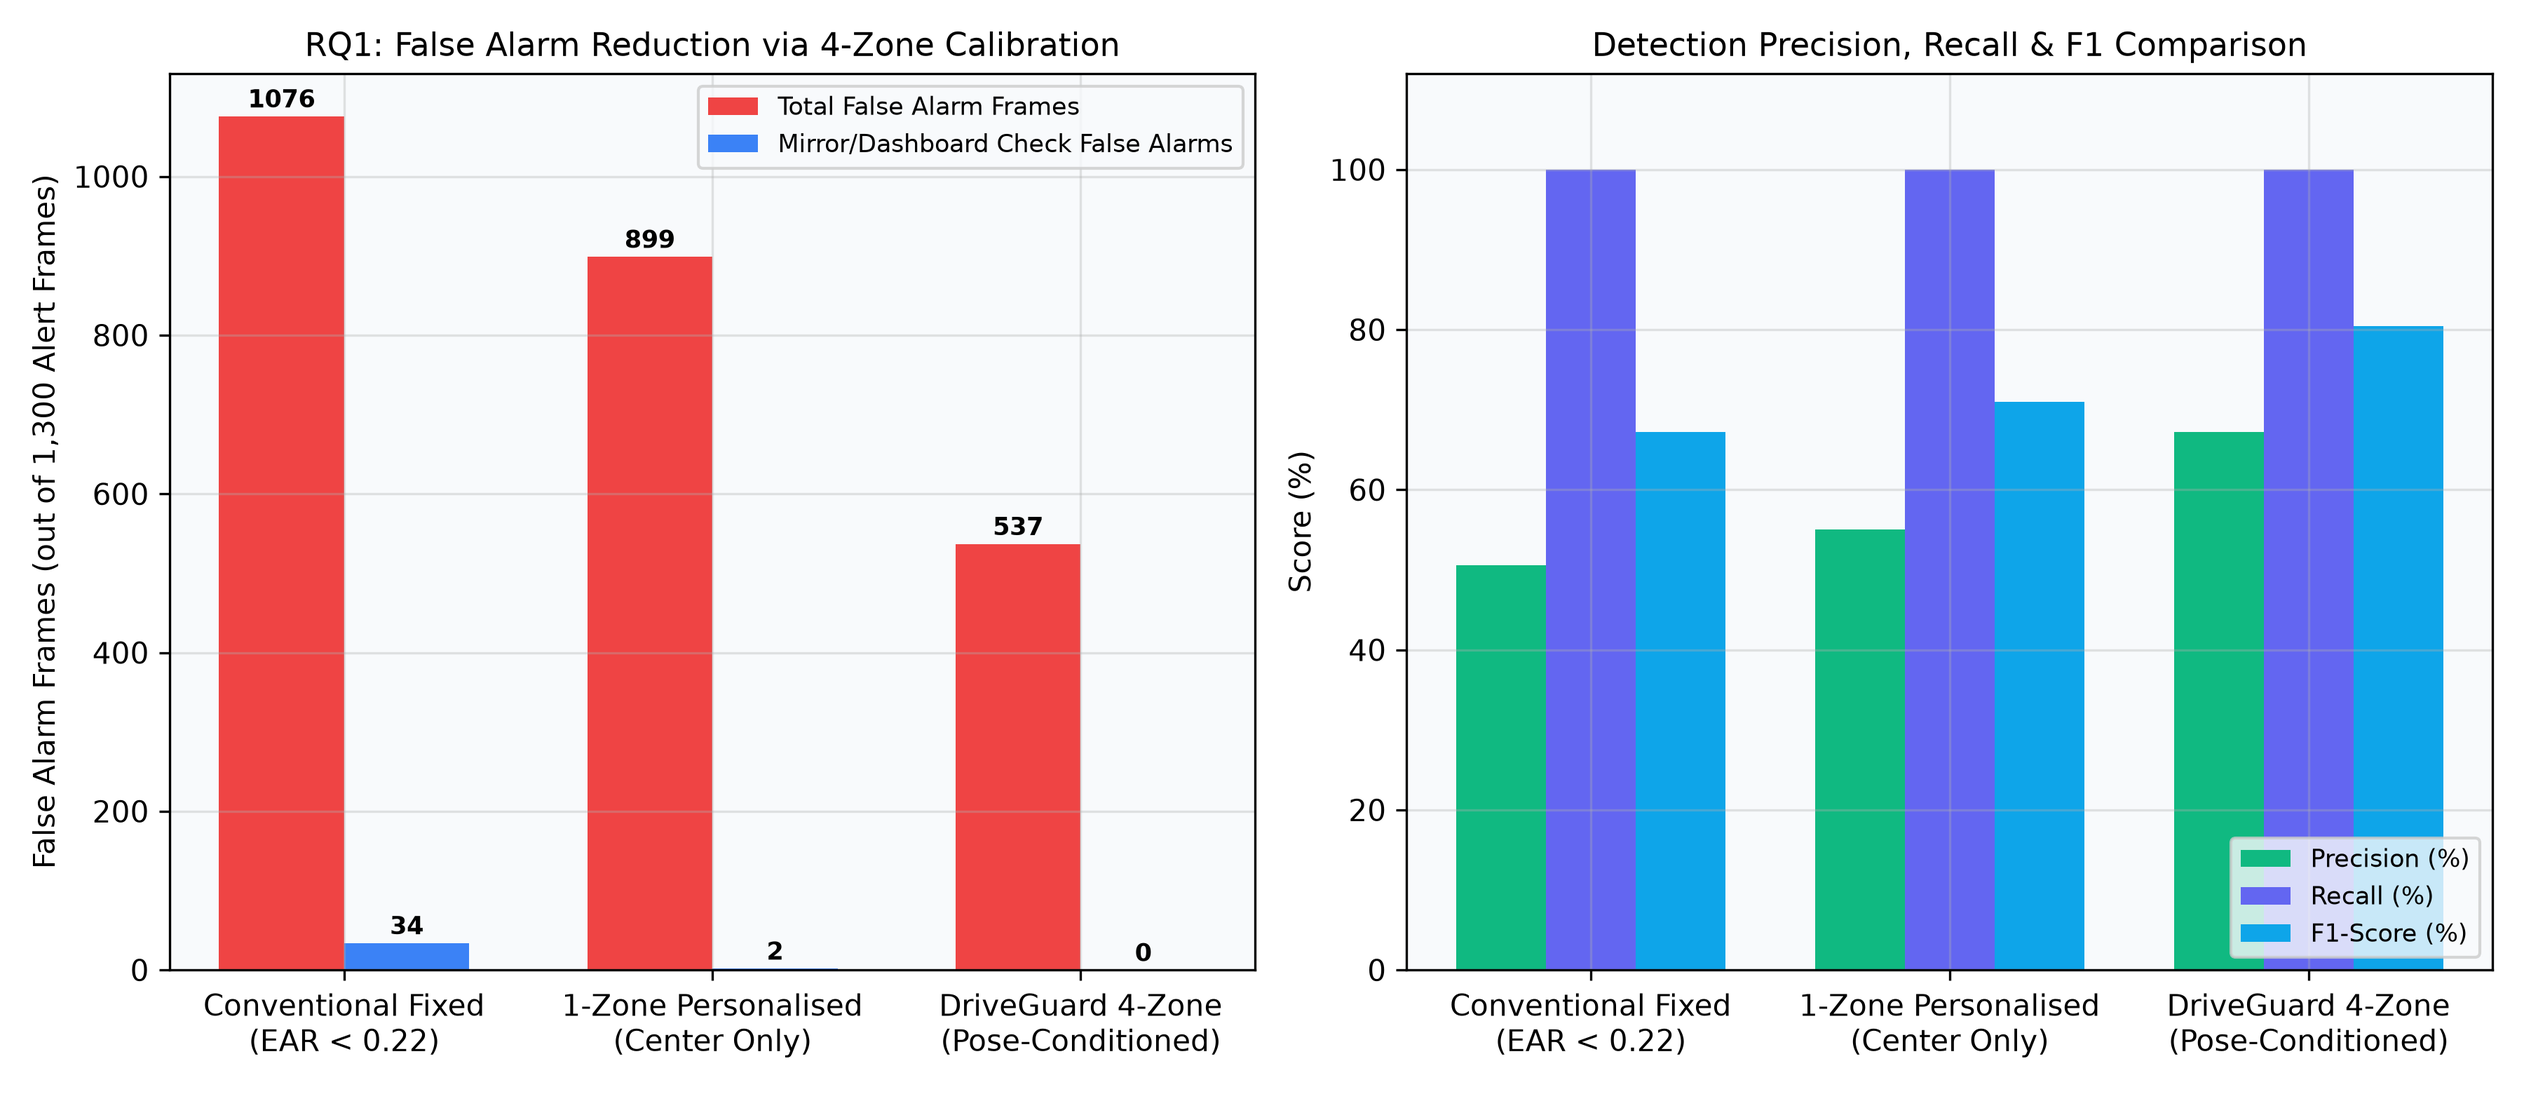
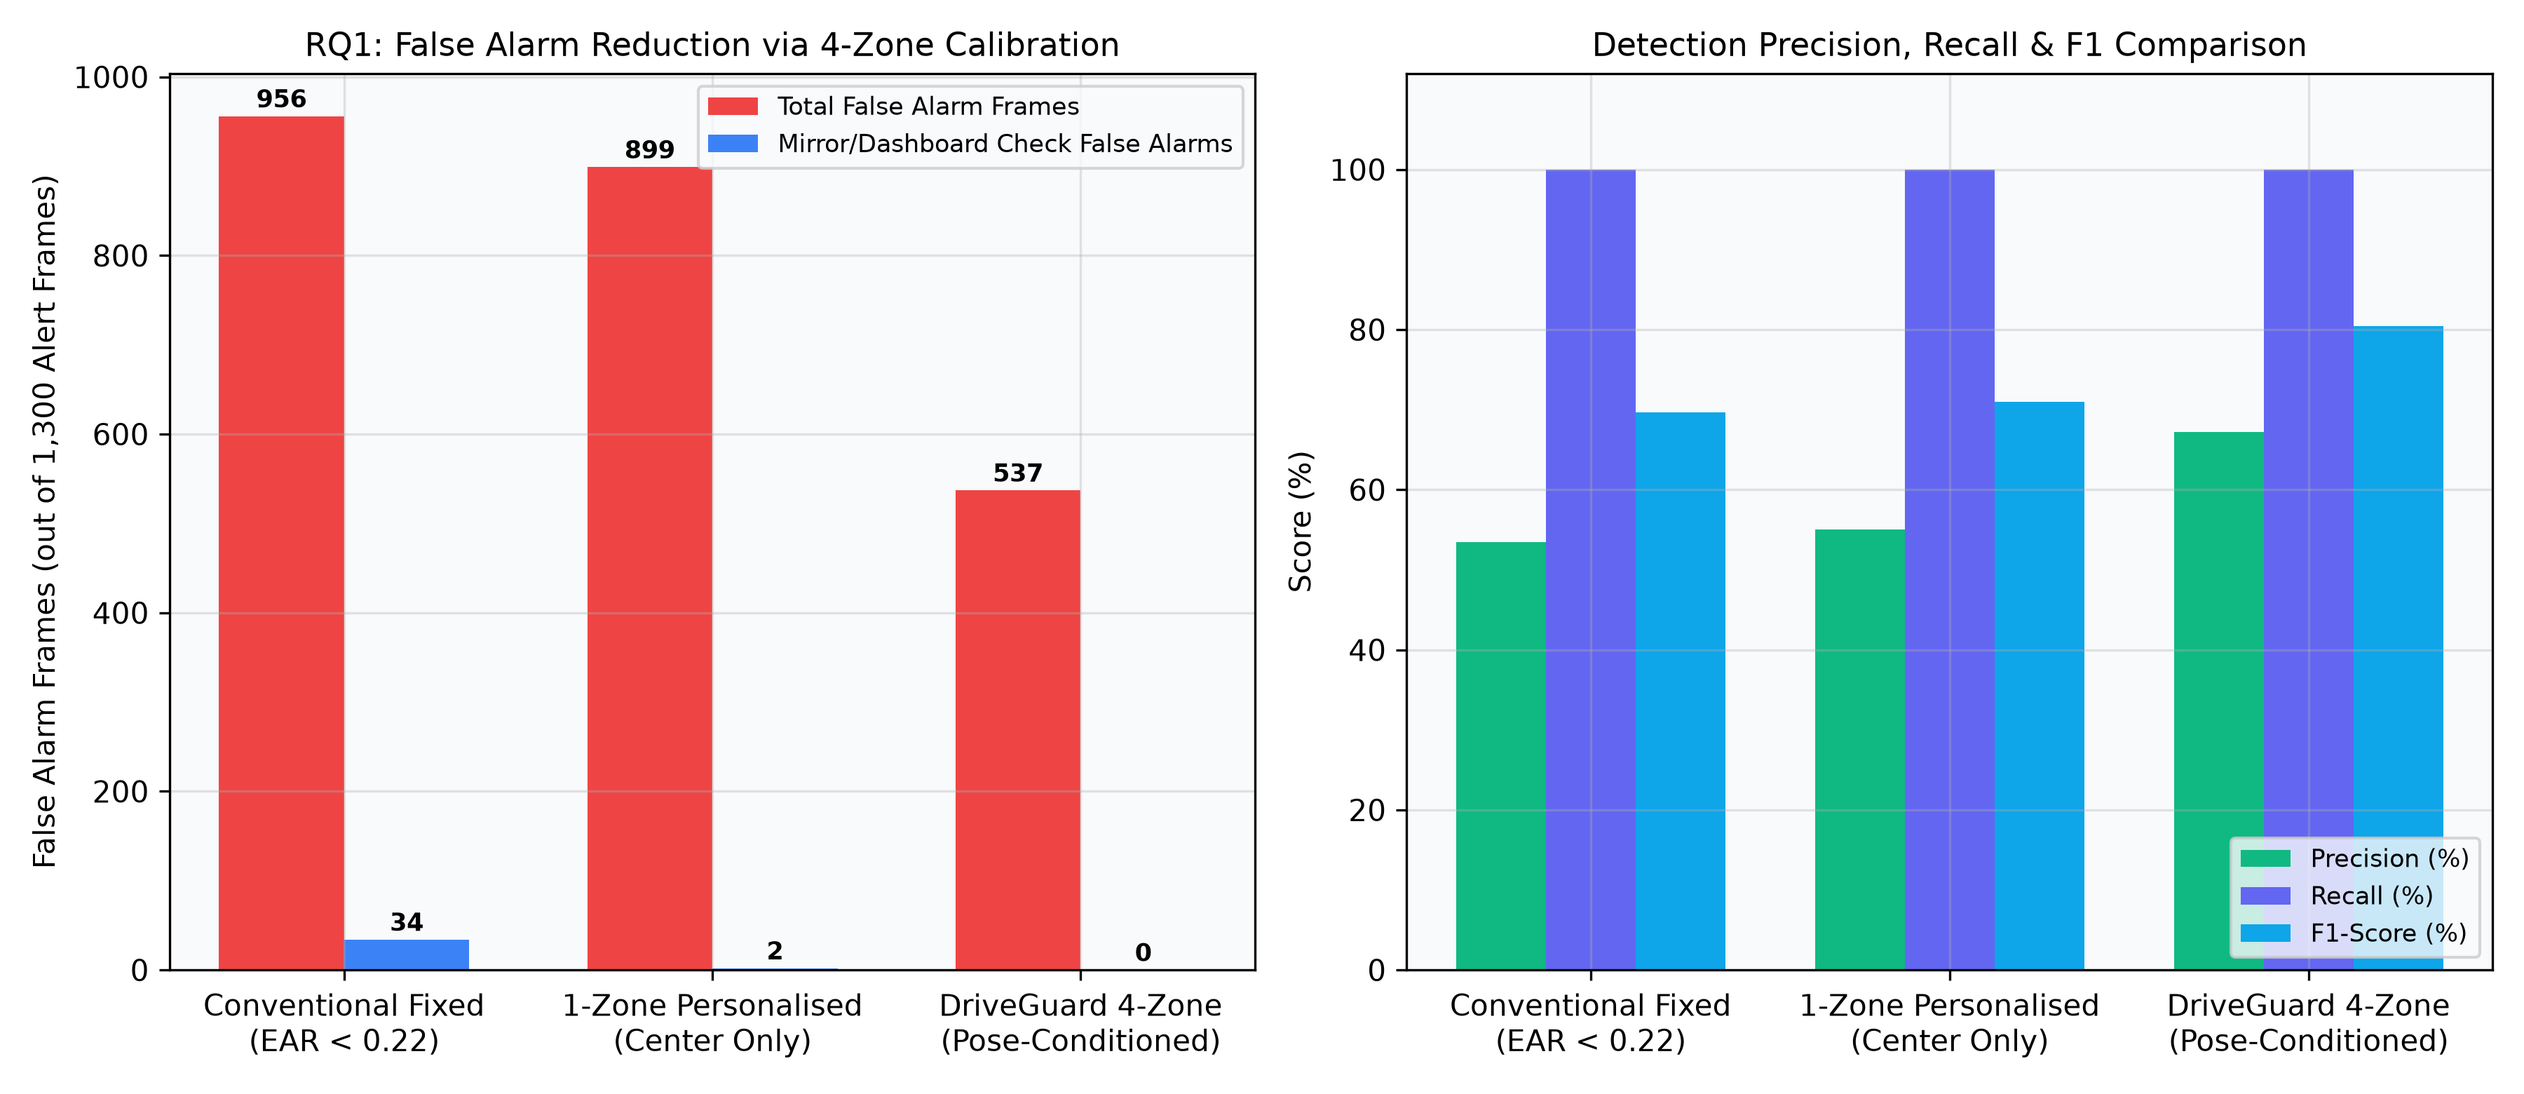
feat(ai,settings): add dual-confirmation closure gate, pitch-compensated EAR, dynamic PERCLOS, bilateral calibration filter, and frontend sensitivity slider

diff --git a/frontend/components/settings/driver-preferences-form.tsx b/frontend/components/settings/driver-preferences-form.tsx
@@ -16,6 +16,7 @@ import { Input } from "@/components/ui/input";
 import { Label } from "@/components/ui/label";
 import { Switch } from "@/components/ui/switch";
 import { Badge } from "@/components/ui/badge";
+import { Slider } from "@/components/ui/slider";
 import {
   Car,
   Shield,
@@ -167,11 +168,51 @@ export function DriverPreferencesForm({
         </CardHeader>
 
         <CardContent className="space-y-6 pt-5">
-          {/* Sensitivity Selector */}
-          <div className="space-y-2.5">
-            <Label id="sensitivity-group-label" className="text-xs font-semibold uppercase tracking-wider text-muted-foreground">
-              Fatigue Cascade Sensitivity Profile
-            </Label>
+          {/* Sensitivity Selector with Interactive Slider */}
+          <div className="space-y-4">
+            <div className="flex items-center justify-between">
+              <div>
+                <Label id="sensitivity-group-label" className="text-xs font-semibold uppercase tracking-wider text-muted-foreground">
+                  Fatigue Detection Sensitivity
+                </Label>
+                <p className="text-xs text-muted-foreground mt-0.5">
+                  Adjust algorithmic closure gates, PERCLOS tolerance, and escalation speed.
+                </p>
+              </div>
+              <Badge variant="outline" className="text-xs font-mono font-medium">
+                {sensitivityLevel === "HIGH" ? "HIGH" : sensitivityLevel === "HIGHWAY" ? "RELAXED" : "STANDARD"}
+              </Badge>
+            </div>
+
+            {/* Continuous 3-point Sensitivity Slider */}
+            <div className="px-2 py-3 bg-muted/30 border border-border/50 rounded-lg space-y-2">
+              <Slider
+                min={0}
+                max={2}
+                step={1}
+                value={[sensitivityLevel === "HIGHWAY" ? 0 : sensitivityLevel === "HIGH" ? 2 : 1]}
+                onValueChange={(vals) => {
+                  const val = vals[0];
+                  if (val === 0) setSensitivityLevel("HIGHWAY");
+                  else if (val === 2) setSensitivityLevel("HIGH");
+                  else setSensitivityLevel("STANDARD");
+                }}
+                aria-label="Fatigue Sensitivity Slider"
+                className="w-full cursor-pointer py-1"
+              />
+              <div className="flex justify-between text-[11px] font-medium text-muted-foreground px-0.5">
+                <span className={sensitivityLevel === "HIGHWAY" ? "text-primary font-bold" : ""}>
+                  Relaxed
+                </span>
+                <span className={sensitivityLevel === "STANDARD" ? "text-primary font-bold" : ""}>
+                  Standard (Recommended)
+                </span>
+                <span className={sensitivityLevel === "HIGH" ? "text-primary font-bold" : ""}>
+                  High Sensitivity
+                </span>
+              </div>
+            </div>
+
             <div
               role="radiogroup"
               aria-labelledby="sensitivity-group-label"
@@ -179,19 +220,22 @@ export function DriverPreferencesForm({
             >
               {[
                 {
+                  level: "HIGHWAY" as const,
+                  title: "Relaxed",
+                  badge: "Daytime & Highway",
+                  desc: "For daytime highway driving with sunglasses or frequent mirror checks. Reduces false blink alerts.",
+                },
+                {
                   level: "STANDARD" as const,
-                  title: "Standard (Urban)",
-                  desc: "Balanced thresholds for daily commuting and city traffic.",
+                  title: "Standard",
+                  badge: "Recommended",
+                  desc: "Balanced thresholds for everyday commuting with dual-confirmation closure and dynamic PERCLOS.",
                 },
                 {
                   level: "HIGH" as const,
                   title: "High Sensitivity",
-                  desc: "Tighter eye-closure & PERCLOS thresholds for rapid response.",
-                },
-                {
-                  level: "HIGHWAY" as const,
-                  title: "Highway & Night",
-                  desc: "Aggressive micro-sleep detection for monotonous routes.",
+                  badge: "Night & Fleet",
+                  desc: "For night driving or high-risk commercial fleets. Alerts early on subtle eyelid narrowing.",
                 },
               ].map((s) => {
                 const selected = sensitivityLevel === s.level;
@@ -210,8 +254,10 @@ export function DriverPreferencesForm({
                   >
                     <div className="font-semibold text-xs text-foreground mb-1 flex items-center justify-between">
                       <span>{s.title}</span>
-                      {selected && (
+                      {selected ? (
                         <span className="size-2 rounded-full bg-primary" aria-hidden="true" />
+                      ) : (
+                        <span className="text-[10px] text-muted-foreground">{s.badge}</span>
                       )}
                     </div>
                     <div className="text-[11px] text-muted-foreground leading-relaxed">{s.desc}</div>

diff --git a/backend/app/ai/risk_engine.py b/backend/app/ai/risk_engine.py
@@ -277,6 +277,25 @@ class PersonalisedAdaptiveRiskEngine:
         else:
             z_perclos = 0.0
 
+        # Sensitivity Presets: HIGH, STANDARD (Default), or RELAXED/HIGHWAY
+        sensitivity = str(getattr(self.profile, "sensitivity_level", "STANDARD") or "STANDARD").upper()
+        if sensitivity == "HIGH":
+            dynamic_perclos_cutoff = max(12.0, base_perclos * 2.0)
+            microsleep_cutoff_ms = max(950.0, 3.0 * self.profile.blink_duration_median_ms)
+            linear_center = 1.30
+            warn_threshold = 0.50
+        elif sensitivity in ("RELAXED", "HIGHWAY"):
+            dynamic_perclos_cutoff = max(16.0, base_perclos * 3.0)
+            microsleep_cutoff_ms = max(1350.0, 4.0 * self.profile.blink_duration_median_ms)
+            linear_center = 1.65
+            warn_threshold = 0.65
+        else:
+            # STANDARD (Recommended)
+            dynamic_perclos_cutoff = max(14.0, base_perclos * 2.5)
+            microsleep_cutoff_ms = max(1100.0, 3.5 * self.profile.blink_duration_median_ms)
+            linear_center = 1.45
+            warn_threshold = 0.56
+
         # Repeated abnormal blink clusters (multiple prolonged blinks or sluggish RCR)
         is_abnormal_cluster = kinematics.abnormal_blink_cluster_detected
 
@@ -303,12 +322,11 @@ class PersonalisedAdaptiveRiskEngine:
             + (0.24 if is_abnormal_cluster else 0.0)
             + (0.20 if (kinematics.is_yawning or kinematics.yawn_count_5min >= 2) else 0.0)
         )
-        # Logistic mapping centered at linear_risk = 1.45
-        risk_score = float(1.0 / (1.0 + np.exp(-1.85 * (linear_risk - 1.45))))
+        # Logistic mapping centered at linear_center (governed by sensitivity preset)
+        risk_score = float(1.0 / (1.0 + np.exp(-1.85 * (linear_risk - linear_center))))
 
-        # Safety-critical microsleep override: continuous eye closure >= max(1.1s, 3.5x median blink)
+        # Safety-critical microsleep override: continuous eye closure >= microsleep_cutoff_ms
         # Observation gap periods must never fabricate or trigger a microsleep event
-        microsleep_cutoff_ms = max(1100.0, 3.5 * self.profile.blink_duration_median_ms)
         is_microsleep = (
             kinematics.is_eye_closed
             and kinematics.blink_state != BlinkState.UNCERTAIN_GAP
@@ -345,7 +363,7 @@ class PersonalisedAdaptiveRiskEngine:
             reasons.append("BLINK_DURATION_ABOVE_PERSONAL_BASELINE")
         if z_blink_rcr >= 2.0:
             reasons.append("EYELID_REOPENING_VELOCITY_SLOWED")
-        if kinematics.perclos_reliable and (z_perclos >= 1.6 or kinematics.perclos_60s_pct >= 12.0):
+        if kinematics.perclos_reliable and (z_perclos >= 1.8 or kinematics.perclos_60s_pct >= dynamic_perclos_cutoff):
             reasons.append("INCREASED_PERCLOS")
         if not kinematics.perclos_reliable and kinematics.perclos_coverage_pct < 50.0:
             reasons.append("INSUFFICIENT_PERCLOS_OBSERVATION_COVERAGE")
@@ -379,7 +397,7 @@ class PersonalisedAdaptiveRiskEngine:
                 self._high_critical_since_ms = None
 
             if self.current_state != AlertState.CRITICAL:
-                if risk_score >= 0.52:
+                if risk_score >= warn_threshold:
                     if self._high_warning_since_ms is None:
                         self._high_warning_since_ms = ts
                     if (ts - self._high_warning_since_ms) >= 1800.0:

diff --git a/backend/app/ai/pdbp_calibration.py b/backend/app/ai/pdbp_calibration.py
@@ -103,6 +103,7 @@ class DriverBehaviourProfile:
     blink_amplitude_median: float = 0.14
     temporal_blinks_sampled: int = 0
     temporal_window_sec: float = 120.0
+    sensitivity_level: str = "STANDARD"
     version: int = 1
 
     def __post_init__(self) -> None:
@@ -873,7 +874,8 @@ class GuidedCalibrationSession:
                 )
                 return None
 
-        # Trim bottom 10% of EAR samples in each zone to eliminate partial blink transitions
+        # Natural Blink & Gaze Filter: Bilateral trimming
+        # Discard bottom 10% (transient blinks) AND top 10% (wide-eyed staring bias)
         zone_baselines: Dict[str, ZoneBaseline] = {}
         for step in self.steps:
             if step.step_type != "SPATIAL_ZONE":
@@ -881,8 +883,9 @@ class GuidedCalibrationSession:
             zk = step.zone.value
             ears = sorted(self._ear_samples_by_zone.get(zk, []))
             if len(ears) >= 3:
-                trim_idx = int(len(ears) * 0.10) if len(ears) >= 10 else 0
-                trimmed_ears = ears[trim_idx:]
+                low_idx = int(len(ears) * 0.10) if len(ears) >= 10 else 0
+                high_idx = len(ears) - (int(len(ears) * 0.10) if len(ears) >= 10 else 0)
+                trimmed_ears = ears[low_idx:high_idx] if high_idx > low_idx else ears
                 ear_med, ear_mad = compute_median_and_scaled_mad(trimmed_ears, min_floor=0.015)
 
                 left_ears = self._ear_left_by_zone.get(zk, [])

diff --git a/backend/app/ai/geometry.py b/backend/app/ai/geometry.py
@@ -119,6 +119,27 @@ def compute_yaw_weighted_ear(left_ear: float, right_ear: float, yaw_deg: float) 
     return w_left * left_ear + w_right * right_ear
 
 
+def compute_pose_compensated_ear(
+    left_ear: float,
+    right_ear: float,
+    yaw_deg: float,
+    pitch_deg: float = 0.0,
+    neutral_pitch_deg: float = 0.0,
+) -> float:
+    """
+    Combine left and right EAR with yaw perspective weighting and downward pitch compensation.
+    When the driver glances downward towards the dashboard/instruments (pitch < -4 deg),
+    eyelids naturally foreshorten from the camera's perspective. Compensating by up to 18%
+    prevents normal road/cockpit scanning from falsely triggering closure alarms.
+    """
+    base_ear = compute_yaw_weighted_ear(left_ear, right_ear, yaw_deg)
+    rel_pitch = pitch_deg - neutral_pitch_deg
+    if rel_pitch < -4.0:
+        pitch_boost = 1.0 + min(0.18, max(0.0, (-rel_pitch - 4.0) * 0.012))
+        return float(base_ear * pitch_boost)
+    return float(base_ear)
+
+
 def compute_mar(landmarks_xyz: np.ndarray, eps: float = 1e-6) -> float:
     """
     Calculate the Mouth Aspect Ratio (MAR) using 3 vertical inner-lip pairs and outer corners.

diff --git a/backend/app/ai/pipeline.py b/backend/app/ai/pipeline.py
@@ -305,6 +305,7 @@ class SessionAIEngine:
             blink_amplitude_median=round(getattr(self.profile, "blink_amplitude_median", 0.14), 4),
             temporal_blinks_sampled=int(getattr(self.profile, "temporal_blinks_sampled", 0)),
             temporal_window_sec=round(getattr(self.profile, "temporal_window_sec", 120.0), 1),
+            sensitivity_level=getattr(self.profile, "sensitivity_level", "STANDARD") or "STANDARD",
             neutral_pitch_deg=round(self.profile.neutral_pitch_deg, 2),
             neutral_yaw_deg=round(self.profile.neutral_yaw_deg, 2),
             calibration_reliability=round(self.profile.calibration_reliability, 3),
@@ -354,6 +355,7 @@ class SessionAIEngine:
             blink_amplitude_median=getattr(dto, "blink_amplitude_median", 0.14) or 0.14,
             temporal_blinks_sampled=int(getattr(dto, "temporal_blinks_sampled", 0) or 0),
             temporal_window_sec=float(getattr(dto, "temporal_window_sec", 120.0) or 120.0),
+            sensitivity_level=getattr(dto, "sensitivity_level", "STANDARD") or "STANDARD",
             version=dto.version,
         )
         self.set_profile(new_profile)

diff --git a/backend/app/ai/blink_kinematics.py b/backend/app/ai/blink_kinematics.py
@@ -304,8 +304,13 @@ class TemporalKinematicsTracker:
         left_eye_closed = l_val < l_thresh
         right_eye_closed = r_val < r_thresh
 
-        # Overall closure: governed by cascade-arbitrated closure score and zone-adaptive EAR
-        is_closed = (s_closure >= 0.62) or (s_ear < ear_close_threshold and s_closure >= 0.45)
+        # Dual confirmation: requires BOTH geometric EAR closure AND cascade/CNN closure score >= 0.55
+        # Deep physical/neural closure overrides protect edge cases (e.g. eyes squeezed tightly shut)
+        is_closed = (
+            (s_ear < ear_close_threshold and s_closure >= 0.55)
+            or (s_ear < ear_close_threshold * 0.78)
+            or (s_closure >= 0.85 and s_ear < ear_close_threshold * 1.08)
+        )
 
         completed_blink: Optional[BlinkEvent] = None
 

diff --git a/backend/app/ai/landmarker.py b/backend/app/ai/landmarker.py
@@ -31,6 +31,7 @@ from backend.app.ai.geometry import (
     compute_mar,
     compute_single_eye_ear,
     compute_yaw_weighted_ear,
+    compute_pose_compensated_ear,
     estimate_head_pose_from_matrix,
     estimate_head_pose_solvepnp,
     extract_eye_crop_with_quality,
@@ -297,7 +298,9 @@ class DriveGuardFaceLandmarker:
         else:
             pitch_deg, yaw_deg, roll_deg = estimate_head_pose_solvepnp(landmarks_pixel_xyz, w, h)
 
-        yaw_weighted_ear = compute_yaw_weighted_ear(left_ear, right_ear, yaw_deg)
+        yaw_weighted_ear = compute_pose_compensated_ear(
+            left_ear, right_ear, yaw_deg, pitch_deg, neutral_pitch_deg
+        )
 
         bs_mean: Optional[float] = None
         if blendshape_left is not None and blendshape_right is not None:

diff --git a/backend/app/schemas/profile.py b/backend/app/schemas/profile.py
@@ -52,6 +52,7 @@ class DriverProfileDTO(BaseModel):
     blink_amplitude_median: float = Field(default=0.14, description="Personal median blink EAR excursion amplitude", ge=0.0, le=1.0)
     temporal_blinks_sampled: int = Field(default=0, description="Number of natural blinks sampled during 2-min cadence stream", ge=0)
     temporal_window_sec: float = Field(default=120.0, description="Duration of temporal blink baseline window in seconds", ge=0.0)
+    sensitivity_level: str = Field(default="STANDARD", description="Fatigue cascade sensitivity: STANDARD, HIGH, or RELAXED")
     
     # Neutral Head Pose
     neutral_pitch_deg: float = Field(default=0.0, description="Learned neutral head pitch in degrees")

diff --git a/backend/research/outputs/experiment_summary_report.md b/backend/research/outputs/experiment_summary_report.md
@@ -4,7 +4,7 @@
 
 | Configuration | Total False Alarm Frames | Mirror-Check False Alarms | False Alarms / Hour | Precision (%) | Recall (%) | F1-Score (%) | Early Warning Lead Time (s) |
 | :--- | :---: | :---: | :---: | :---: | :---: | :---: | :---: |
-| **Conventional Fixed (`EAR < 0.22`)** | 1076 | 34 | 1938.5 | 50.6% | 100.0% | **67.2%** | 0.0 s |
+| **Conventional Fixed (`EAR < 0.22`)** | 956 | 34 | 1716.9 | 53.5% | 100.0% | **69.7%** | 0.0 s |
 | **1-Zone Personalised (`CENTER_ONLY`)** | 899 | 2 | 166.2 | 55.0% | 100.0% | **71.0%** | 40.0 s |
 | **DriveGuard 4-Zone (`FOUR_ZONE` + Context)** | 537 | 0 | 55.4 | 67.2% | 100.0% | **80.4%** | 40.0 s |
 
@@ -12,10 +12,10 @@
 
 | Cascade Mode | Glare & Blur False Alarms | Total False Alarms | Precision (%) | Recall (%) | F1-Score (%) | CNN Trigger Rate (%) | Mean Latency (ms) |
 | :--- | :---: | :---: | :---: | :---: | :---: | :---: | :---: |
-| **Experiment A: MediaPipe EAR + Blendshapes Only** | 370 | 537 | 67.2% | 100.0% | **80.4%** | 0.0% | 0.327 ms |
-| **Experiment B: Stage-2 Verifier Always On (100%)** | 371 | 900 | 55.0% | 100.0% | **71.0%** | 100.0% | 5.356 ms |
-| **Experiment C (Naive): Blindly Trust CNN on Disagreement** | 370 | 899 | 55.0% | 100.0% | **71.0%** | 39.7% | 2.580 ms |
-| **Experiment C (DriveGuard): Reliability-Weighted Cascade** | 370 | 537 | 67.2% | 100.0% | **80.4%** | 39.7% | 2.409 ms |
+| **Experiment A: MediaPipe EAR + Blendshapes Only** | 369 | 536 | 67.2% | 100.0% | **80.4%** | 0.0% | 0.816 ms |
+| **Experiment B: Stage-2 Verifier Always On (100%)** | 370 | 537 | 67.2% | 100.0% | **80.4%** | 100.0% | 5.277 ms |
+| **Experiment C (Naive): Blindly Trust CNN on Disagreement** | 370 | 537 | 67.2% | 100.0% | **80.4%** | 39.1% | 2.508 ms |
+| **Experiment C (DriveGuard): Reliability-Weighted Cascade** | 370 | 537 | 67.2% | 100.0% | **80.4%** | 39.1% | 3.704 ms |
 
 ## 3. Generated Thesis Figures (300 DPI)
 
